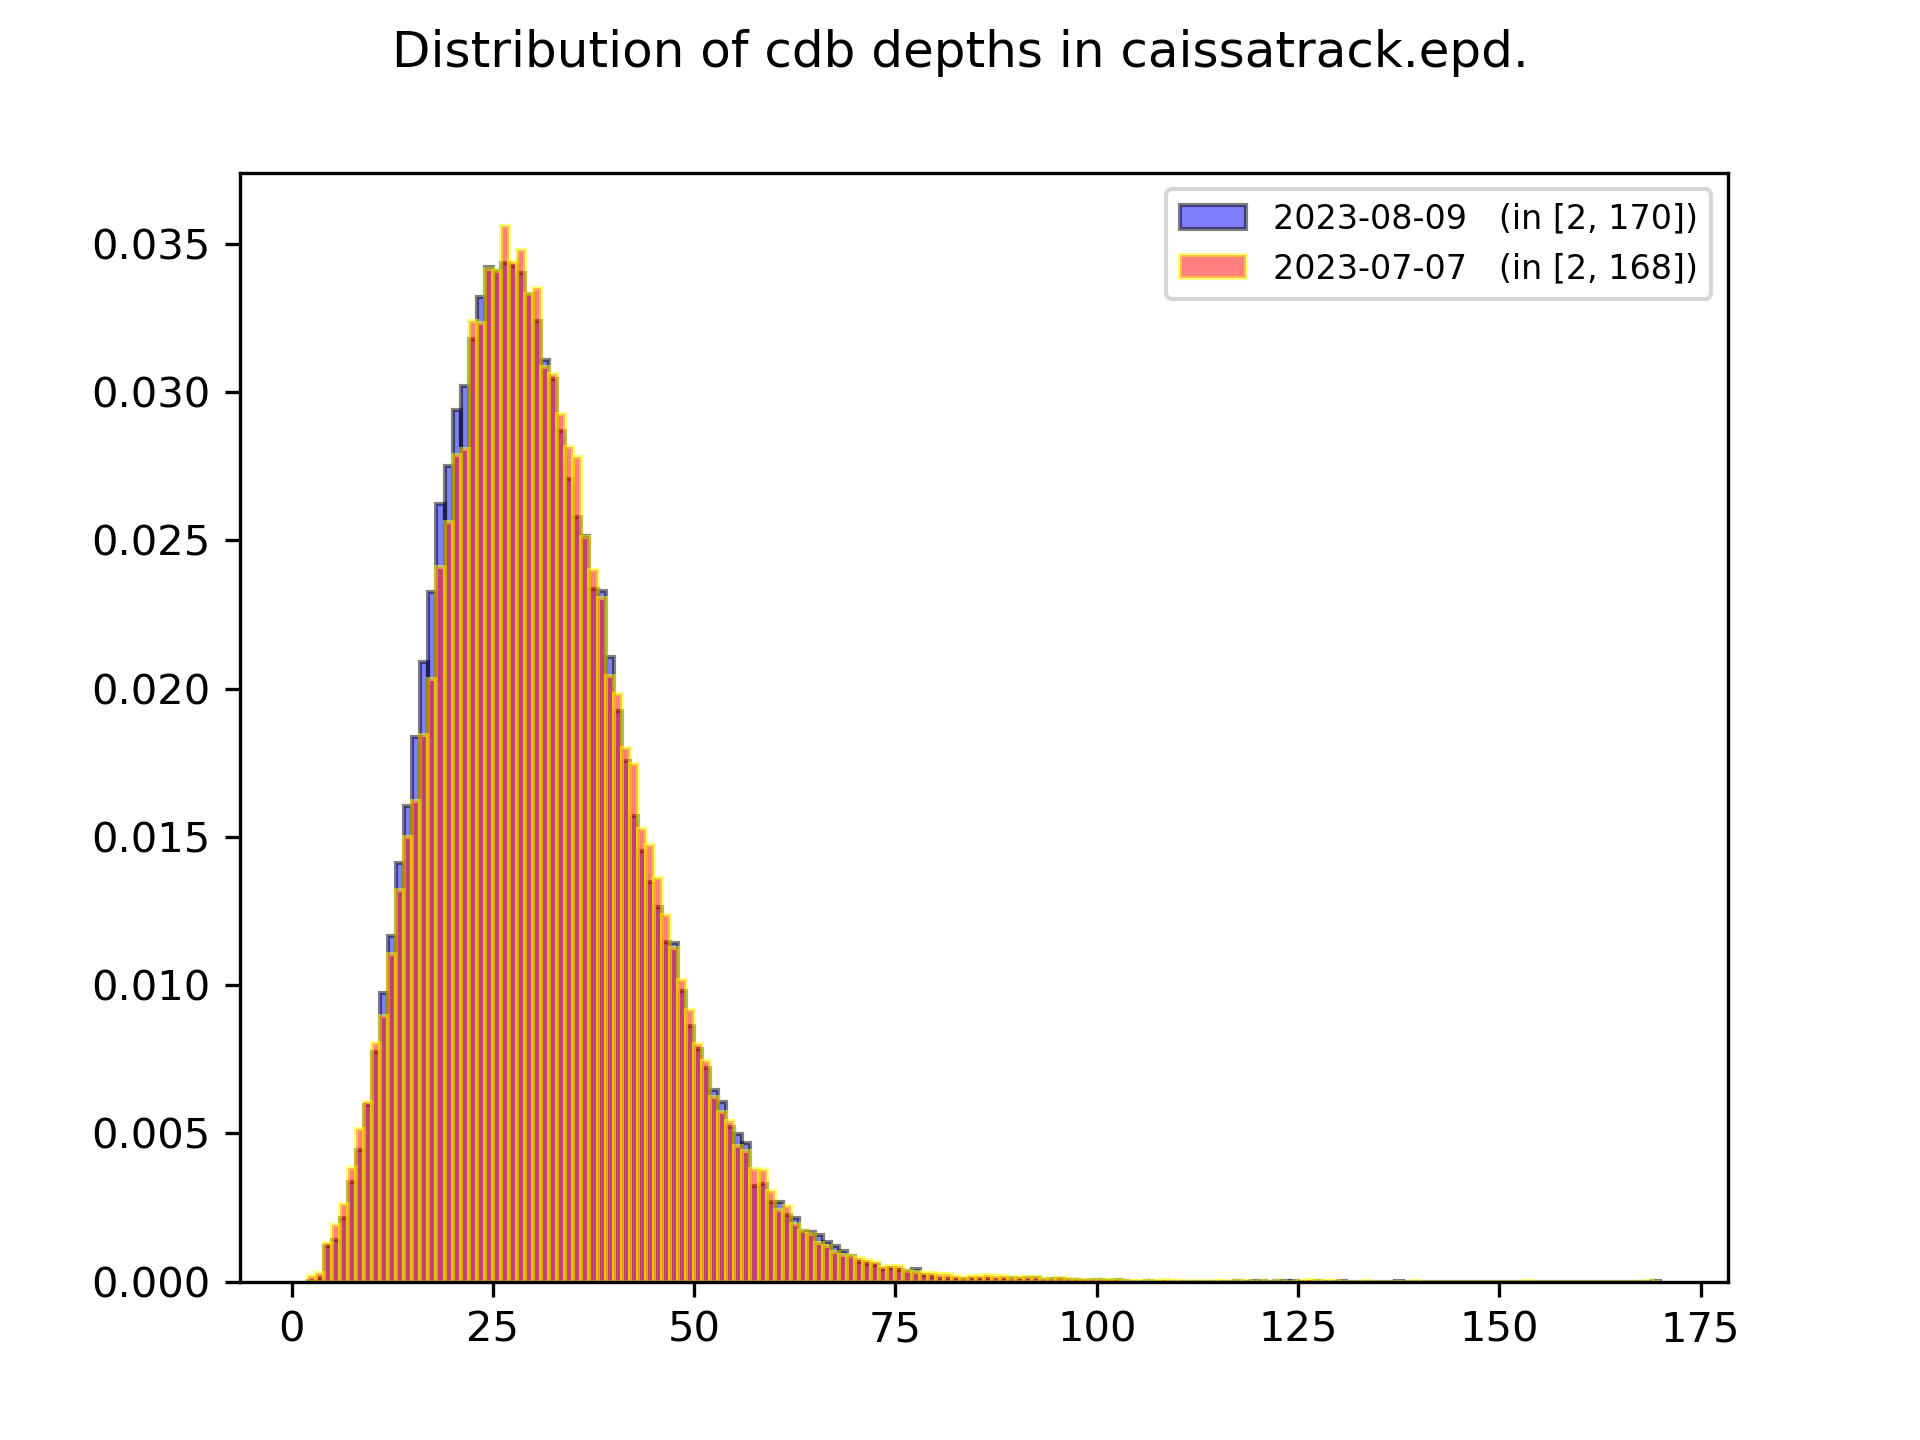
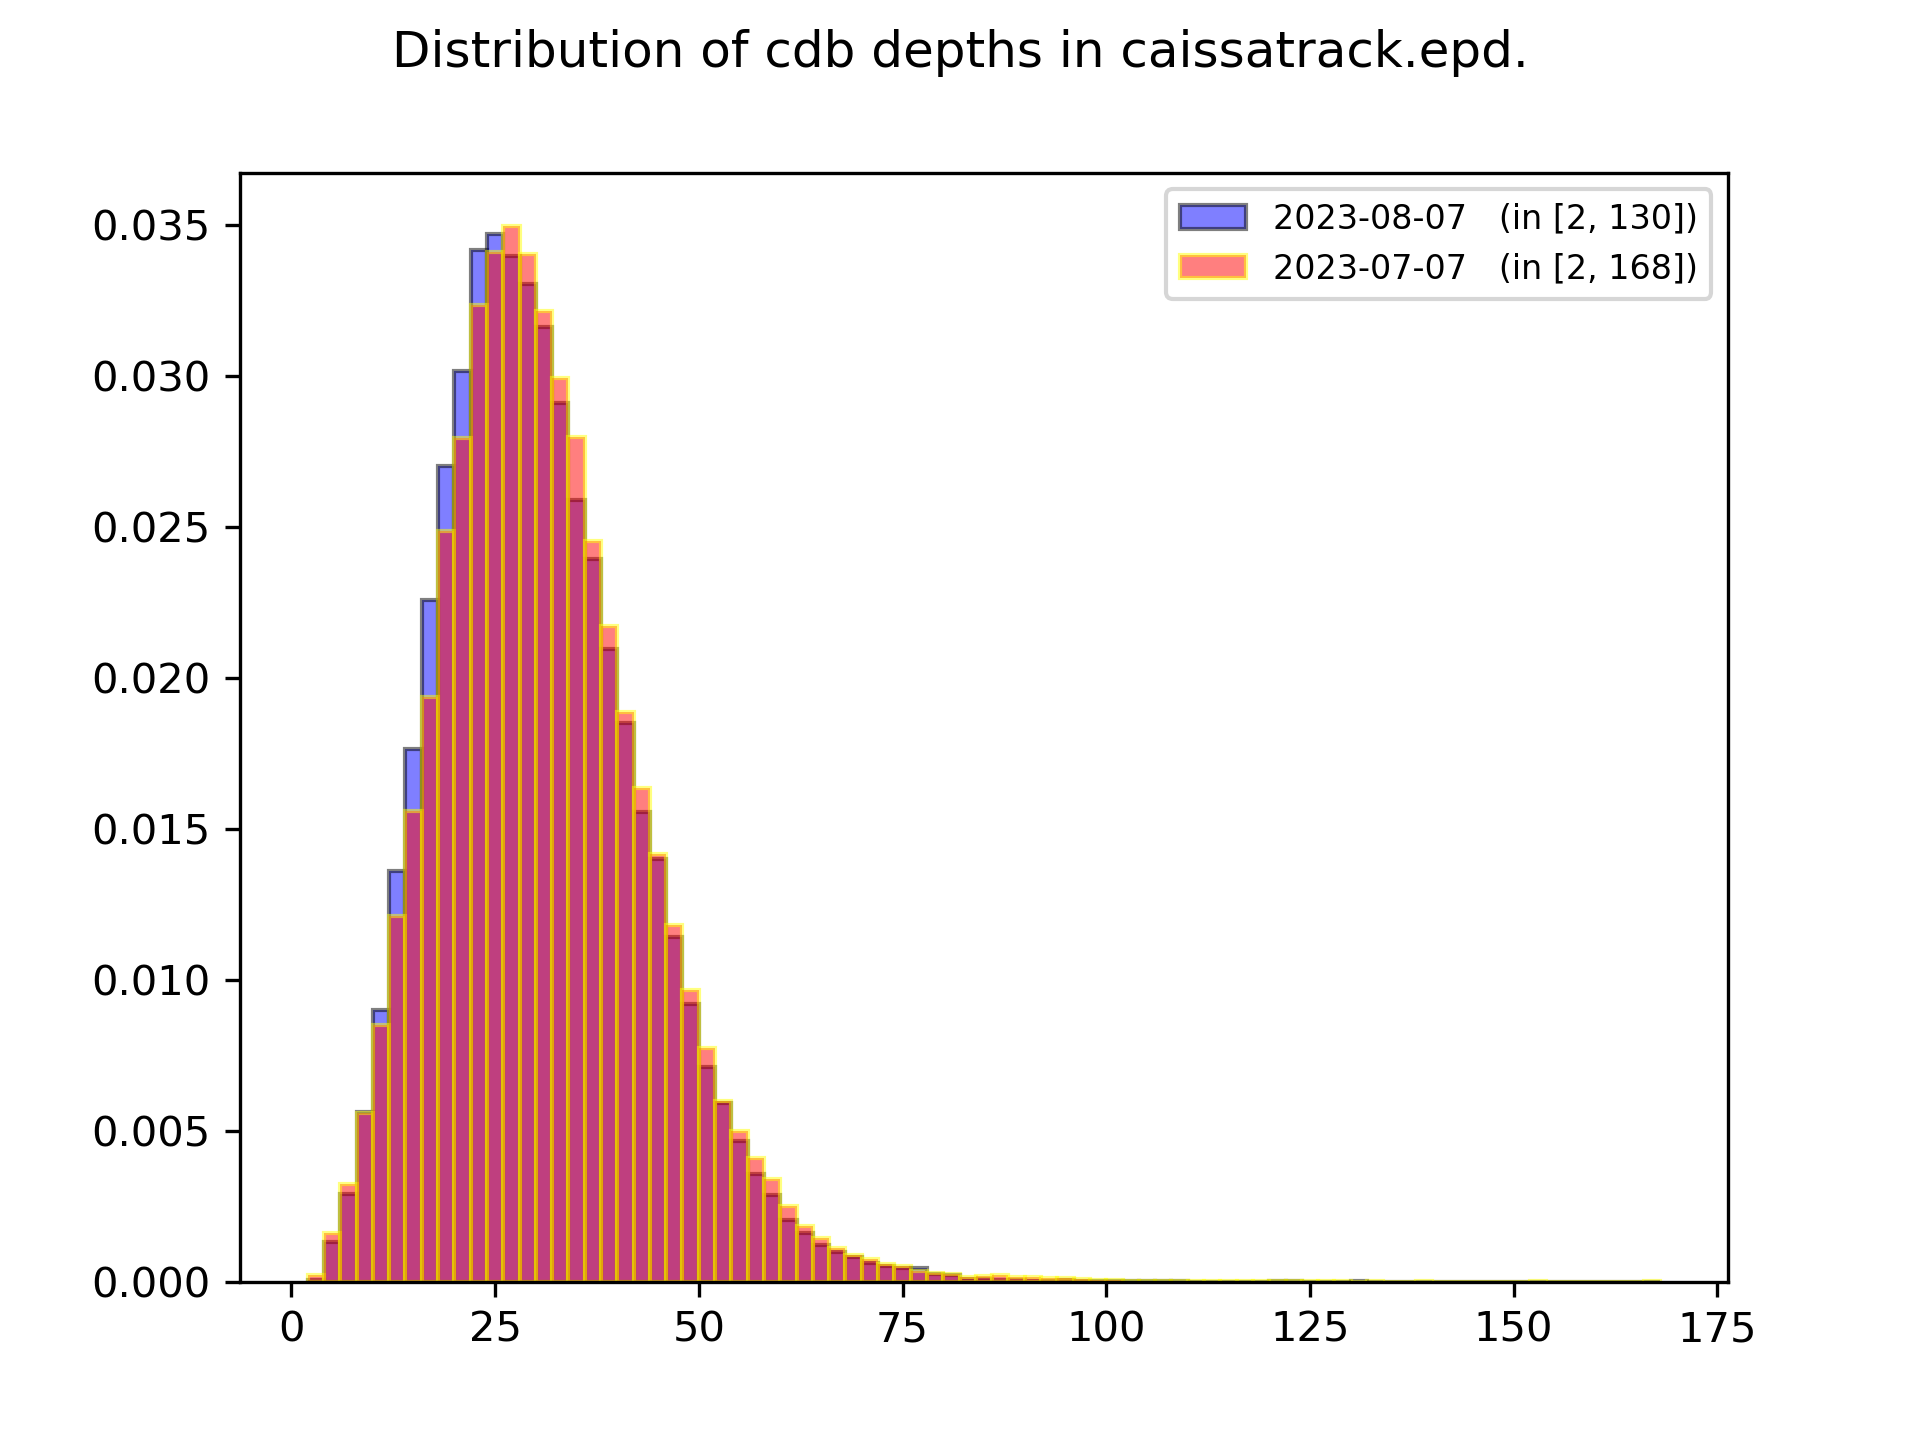
change cutoff and bin sizes

diff --git a/plotdata.py b/plotdata.py
@@ -26,7 +26,7 @@ class matedata:
                     self.evals.append(ast.literal_eval(dict1Str))
                     self.depths.append(ast.literal_eval(dict2Str))
 
-    def create_graph(self, pv=False):
+    def create_graph(self, cutOff=100, pv=False):
         dateOld, dateNew = str(self.date[0]), str(self.date[-1])
         if pv:
             dictOld, dictNew = self.depths[0], self.depths[-1]
@@ -36,7 +36,6 @@ class matedata:
             dictOld, dictNew = self.evals[0], self.evals[-1]
             rangeOld = min(dictOld.keys()), max(dictOld.keys())
             rangeNew = min(dictNew.keys()), max(dictNew.keys())
-            cutOff = 100
             for d in [dictOld, dictNew]:
                 for key in [-cutOff, cutOff]:
                     if key not in d:
@@ -56,10 +55,11 @@ class matedata:
         rangeMax = max(list(dictOld.keys()) + list(dictNew.keys()))
         fig, ax = plt.subplots()
         listNew = [key for key, val in dictNew.items() for _ in range(val)]
+        perBin = 2 if pv else 1 if cutOff <= 100 else 3  # values per bin
         ax.hist(
             listNew,
             range=(rangeMin, rangeMax),
-            bins=(rangeMax - rangeMin) // 1,
+            bins=(rangeMax - rangeMin) // perBin,
             density=True,
             alpha=0.5,
             color="blue",
@@ -70,7 +70,7 @@ class matedata:
         ax.hist(
             listOld,
             range=(rangeMin, rangeMax),
-            bins=(rangeMax - rangeMin) // 1,
+            bins=(rangeMax - rangeMin) // perBin,
             density=True,
             alpha=0.5,
             color="red",
@@ -101,9 +101,15 @@ if __name__ == "__main__":
         help="file with statistics over time",
         default="caissatrack.csv",
     )
+    parser.add_argument(
+        "--cutOff",
+        help="Cutoff value for distribution plot.",
+        type=int,
+        default=125,
+    )
     args = parser.parse_args()
 
     prefix, _, _ = args.filename.partition(".")
     data = matedata(prefix)
-    data.create_graph()
+    data.create_graph(cutOff=args.cutOff)
     data.create_graph(pv=True)
